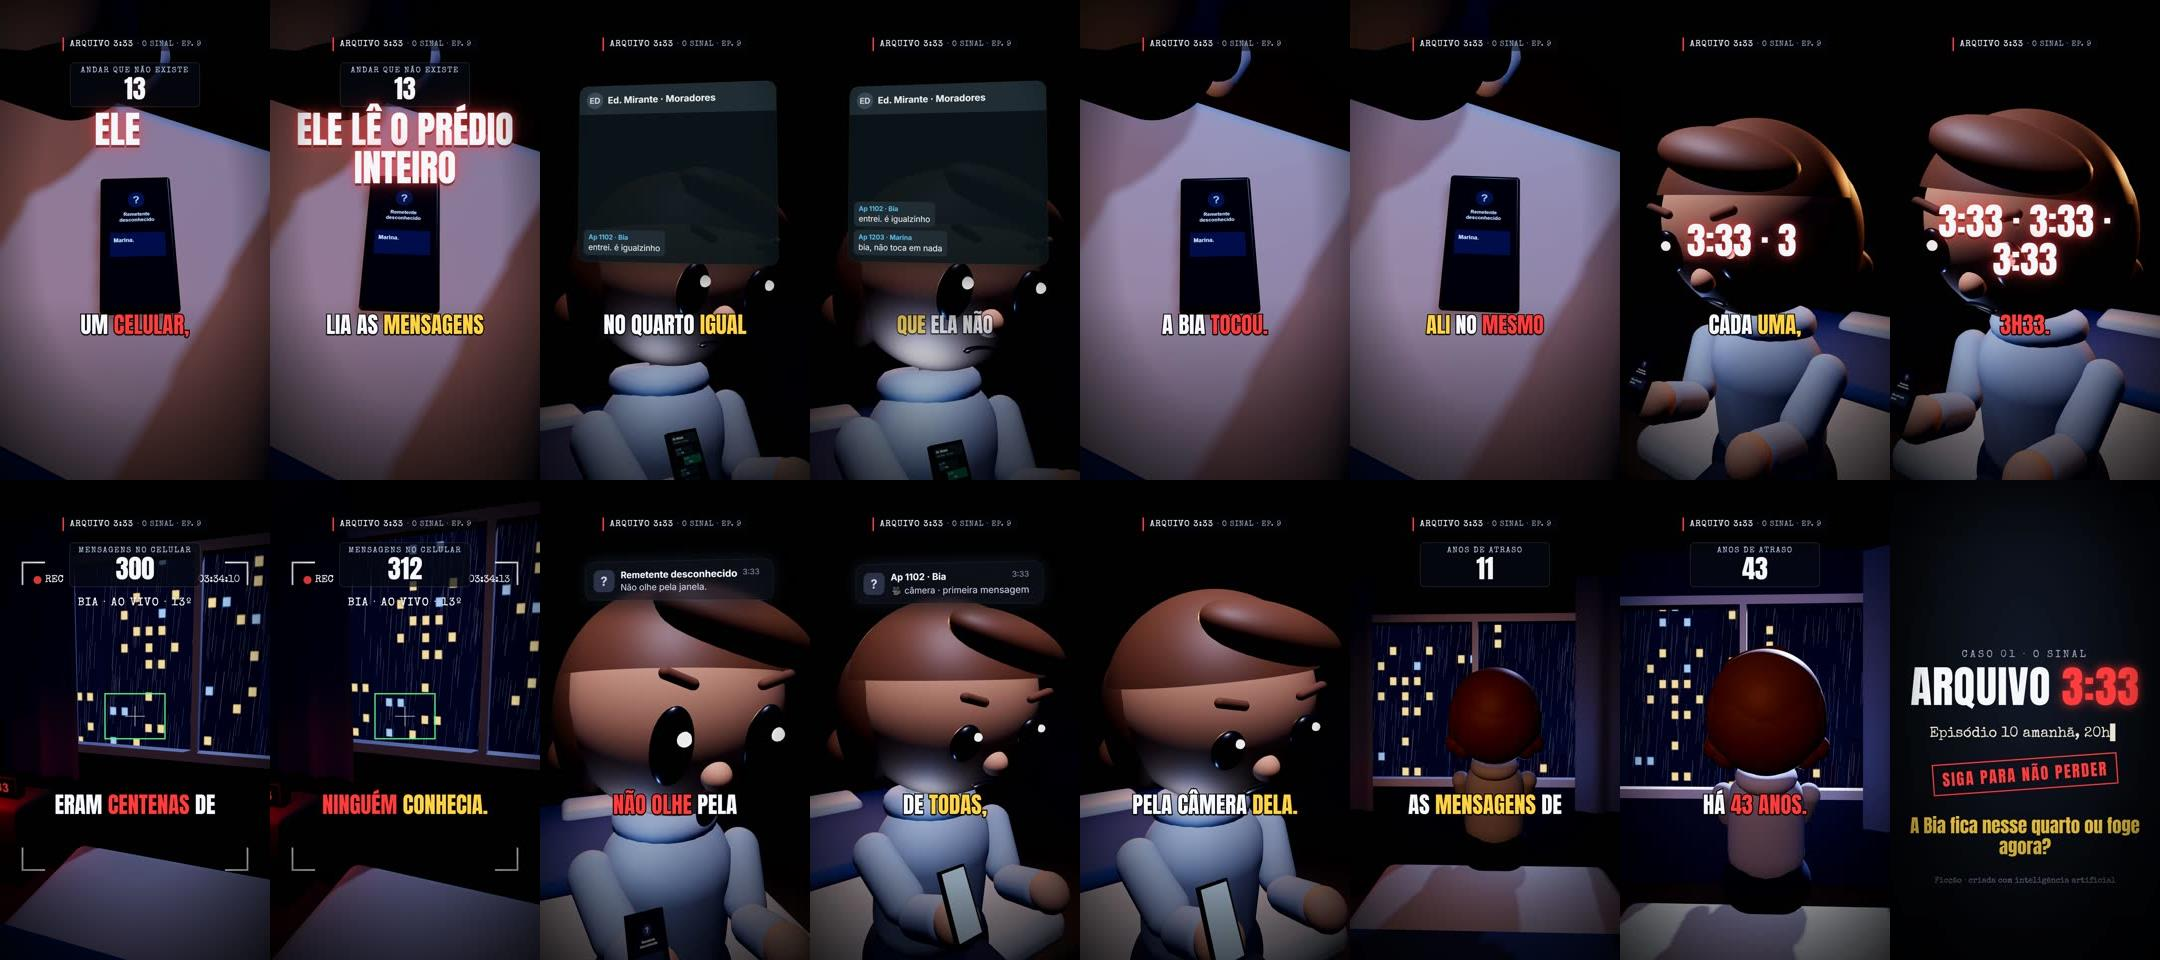
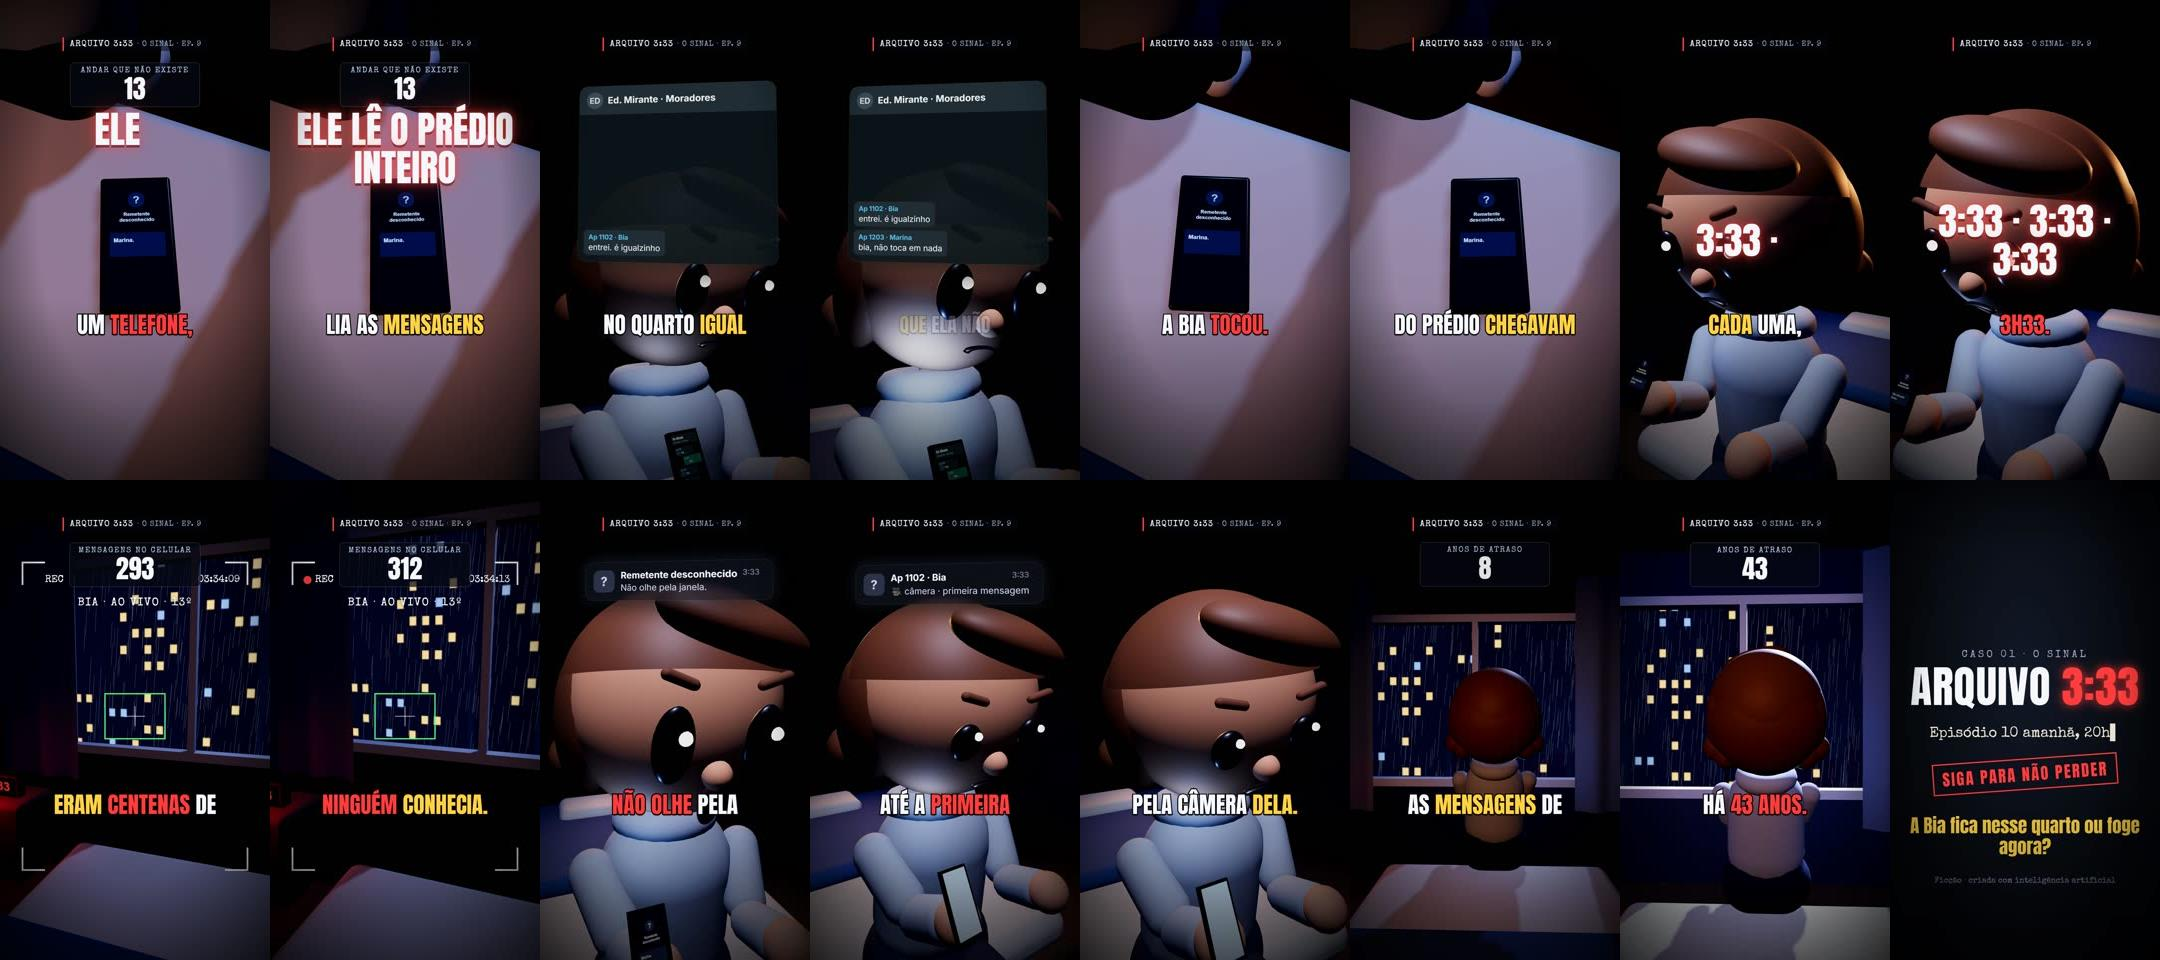
Arquivo 3:33: ep. 9 com a voz refeita (telefone no lugar de celular); Instagram automático registrado

diff --git a/arquivo-333/ESTADO.md b/arquivo-333/ESTADO.md
@@ -10,7 +10,7 @@ Atualizado em 02/11/2026, às 09h. Leia antes de mexer e atualize a cada rodada.
 | Rede | Como sai | No ar até | Agendado | Falta |
 |---|---|---|---|---|
 | YouTube | agendado pelo Chrome | ep. 7 | eps. 8, 9 e 10 (versões com a aposta; as antigas ficaram privadas) | vídeos relacionados e comentários fixados |
-| Instagram | Chrome às 20h (a tarefa publica) | ep. 7 | o site não agenda | ep. 8 em 02/11, ep. 9 em 03/11, ep. 10 em 04/11 |
+| Instagram | **n8n, sozinho às 20h (ligado em 02/11)**; Chrome só se falhar | ep. 7 | o fluxo lê o `agenda.json` do Pages | provar a 1ª publicação real (ep. 8, 02/11 às 20h) na tabela `public.arquivo_instagram` |
 | TikTok | **o Vito, pelo celular** | ep. 7 | ep. 8 (agendado antes da regra) | postar os eps. 9 e 10 com os kits |
 
 ## Quando O Sinal acabar (ep. 12, 06/11)
@@ -32,10 +32,10 @@ Atualizado em 02/11/2026, às 09h. Leia antes de mexer e atualize a cada rodada.
 ## Riscos
 - **Chrome trocando de perfil:** em 02/11, a conexão do Chrome mudou várias vezes para o perfil Trabalho (`117dcc99…`) no meio de um envio. As ferramentas recusam agir fora do grupo de abas, mas refaça `select_browser` com o deviceId da Origem e confira a conta antes de cada passo; use passos curtos.
 - **Tarefas paradas:** as tarefas do PC podem parar pedindo permissão. Em 01/11, as duas ficaram paradas das 19h15 às 20h20 e o ep. 7 só saiu no Instagram pela conversa principal. Encerrar uma rodada parada pode iniciar outra na hora: antes de publicar à mão, confira se há rodada aberta, para o episódio não sair duas vezes.
-- **Instagram manual:** depende do PC ligado e do Chrome certo; atrasou os eps. 6 e 7. O conserto é a chave da conta no n8n (fluxo U5ZEYtmvwySTwvAj, desligado), que precisa do Vito no Meta Business Suite.
+- **Instagram automático (02/11/2026):** o fluxo U5ZEYtmvwySTwvAj foi ligado e a chave lê a conta certa, mas a publicação real só será provada às 20h do ep. 8. O aviso de erro no WhatsApp pode não chegar (o chip `demo-aurora2` está com "Connection Closed" desde pelo menos 01/11): depois das 20h10, **confira sempre a tabela `public.arquivo_instagram`**. Se falhar, vale o Chrome, depois de conferir no perfil que o episódio não saiu antes. A API não tem o rótulo de IA: o aviso fica na legenda e no cartão final. **A chave vence em ~60 dias: renovar até ~01/01/2027.**
 
 ## Pendências
-- **Do Vito:** excluir o ep. 8 agendado no TikTok até 02/11 às 20h e postar pelo celular; escolher o tema do Caso 02; postar os eps. 9 e 10 pelo celular; Meta Business Suite; verificação em 2 etapas no Google; separar o Hoje Sumiu em outro perfil do Chrome.
+- **Do Vito:** excluir o ep. 8 agendado no TikTok até 02/11 às 20h e postar pelo celular; escolher o tema do Caso 02; postar os eps. 9 e 10 pelo celular; renovar a chave do Instagram até ~01/01/2027; verificação em 2 etapas no Google; separar o Hoje Sumiu em outro perfil do Chrome.
 - **Do Claude:** vídeos relacionados e comentários fixados no YouTube; ler a retenção no YouTube Studio e registrar em `publicacao/numeros.md`; eps. 11 e 12; planejar o filme de O Sinal (só plano, sem gastar créditos até o Vito confirmar o formato).
 
 ## Números de 01/11/2026

diff --git a/.claude/skills/arquivo-333/referencia/publicar.md b/.claude/skills/arquivo-333/referencia/publicar.md
@@ -2,7 +2,7 @@
 
 **Quem publica onde:**
 - **YouTube:** agendado pelo Chrome, porque um robô só publica como privado até a plataforma auditar o aplicativo. O agendador do YouTube publica sozinho às 20h, mesmo com o computador desligado.
-- **Instagram:** pela API (n8n) quando a chave existir; até lá, pelo Chrome às 20h.
+- **Instagram:** automático pelo n8n desde 02/11/2026 (veja a seção Instagram abaixo). Não publique pelo Chrome sem antes conferir que o fluxo falhou.
 - **TikTok:** só o Vito, pelo celular. Em `agendados.json`, o status é "com o Vito, pelo celular".
 
 ## Antes de tudo
@@ -58,10 +58,13 @@
   - fixe um comentário que puxa resposta: "Quem você acha que é o remetente? 👀 Episódio N+1 sai amanhã às 20h, e a série completa está na playlist." Comentário conta muito no algoritmo, e pergunta gera comentário.
 
 ## Instagram (instagram.com, conta de CRIADOR desde 26/10/2026)
-- **Automático (melhor):** o fluxo do n8n "Arquivo 3:33 - Publicar Instagram" publica às 20h.
-  - Ele lê `docs/arquivo/agenda.json` no Pages.
-  - Precisa da chave da conta (ver a pendência no cérebro). Se ele estiver ligado, NÃO publique pelo navegador.
-- **Pelo navegador (às 20h, o site não agenda):**
+- **Automático (desde 02/11/2026):** o fluxo do n8n "Arquivo 3:33 - Publicar Instagram" (U5ZEYtmvwySTwvAj) está LIGADO e publica todo dia às 20h o episódio do `agenda.json`, com a credencial "Instagram — token arquivo333".
+  - **Onde lê:** `https://vito0067.github.io/origem-digital-posts/arquivo/agenda.json` e o vídeo e a capa do Pages (`o-sinal-epNN.mp4`). Antes das 20h, confira que o mp4 do Pages é a versão certa (compare o tamanho com a cópia leve do release).
+  - **Não publique pelo Chrome**, para o episódio não sair duas vezes. A tarefa das 19h50 já checa se o fluxo está ativo.
+  - **Conferir depois das 20h10:** a tabela `public.arquivo_instagram` (status `publicado`, com o link) e o `agendados.json`. Se falhar, o fluxo avisa o Vito no WhatsApp; só então vale publicar pelo Chrome, depois de conferir no perfil que o episódio não saiu.
+  - **Rótulo de IA:** a API do Instagram não tem o botão. O aviso fica na legenda e no cartão final do vídeo: todo episódio precisa dos dois.
+  - **Chave:** vence em cerca de 60 dias (renovar até ~01/01/2027). Quando vencer, o fluxo falha e avisa o Vito.
+- **Pelo navegador (plano B; o site não agenda):**
   1. "Criar" → Post → input de arquivo → `file_upload` do mp4 → OK no aviso de reels.
   2. Recorte "Original" (9:16) → Avançar.
   3. "Capa" → "Selecionar do computador" → a capa → Avançar.

diff --git a/.claude/skills/arquivo-333/referencia/nuvem.md b/.claude/skills/arquivo-333/referencia/nuvem.md
@@ -20,7 +20,8 @@
    - Com a folga, o computador pode ficar dias desligado sem perder post.
 4. **Instagram:**
    - **n8n "Arquivo 3:33 - Publicar Instagram":** todo dia às 20h lê `https://vito0067.github.io/origem-digital-posts/arquivo/agenda.json` e publica o Reel do dia, com rótulo de IA e legenda.
-   - Precisa da credencial "Instagram — token arquivo333". Até ela existir, a tarefa das 19h50 publica pelo Chrome.
+   - **Ligado desde 02/11/2026**, com a credencial "Instagram — token arquivo333" (vence em ~60 dias: renovar até ~01/01/2027). A tarefa das 19h50 não publica pelo Chrome se o fluxo estiver ativo.
+   - O vídeo tem que estar certo no Pages antes das 20h: ele vem do release pelo `pages.mjs`, que roda a cada push em `arquivo-333/episodios/`.
 
 ## Voz da rotina
 Antes de gravar a voz, leia `referencia/voz.md` e confira as falas com a lista de palavras proibidas (a rotina roda no GitHub, sem ouvir áudio). Se o terminal permitir, rode `node arquivo-333/ferramentas/revisar-voz.mjs arquivo-333/episodios/epNN.json`. No resultado da rodada, liste as palavras vigiadas de cada episódio para o Vito ouvir.

diff --git a/arquivo-333/ROTINA-DIARIA.md b/arquivo-333/ROTINA-DIARIA.md
@@ -14,5 +14,5 @@ O passo a passo completo agora fica na **skill `arquivo-333`**, no repositório 
 2. **Quando o computador estiver ligado com o app do Claude aberto:** a tarefa "Arquivo 3:33 · agendar nas redes" agenda no YouTube, às 20h do dia de cada episódio, tudo o que já estiver pronto, e deixa o kit do TikTok em `Desktop\Origem-Digital\arquivo-333-envios\celular-epNN`.
 3. **20h:**
    - o YouTube publica sozinho;
-   - o Instagram sai pelo n8n (com a chave) ou pela tarefa das 19h50;
+   - o Instagram sai sozinho pelo n8n (ligado em 02/11/2026); a tarefa das 19h50 só publica pelo Chrome se o fluxo estiver desligado ou falhar;
    - o Vito posta no TikTok pelo celular, com o kit (regra de 01/11/2026: nunca pelo computador).
